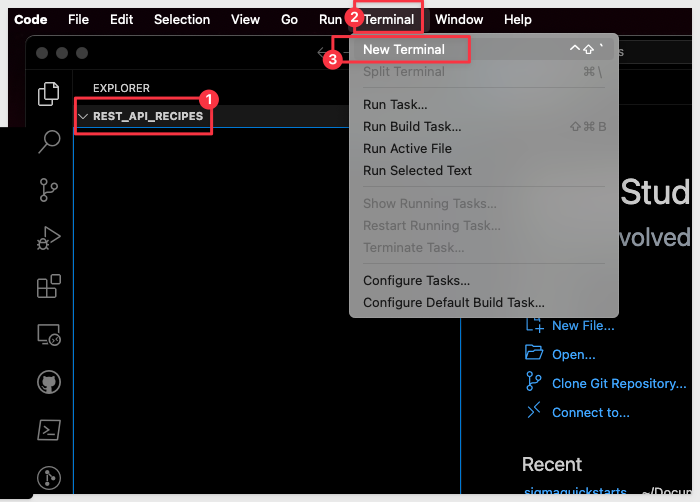
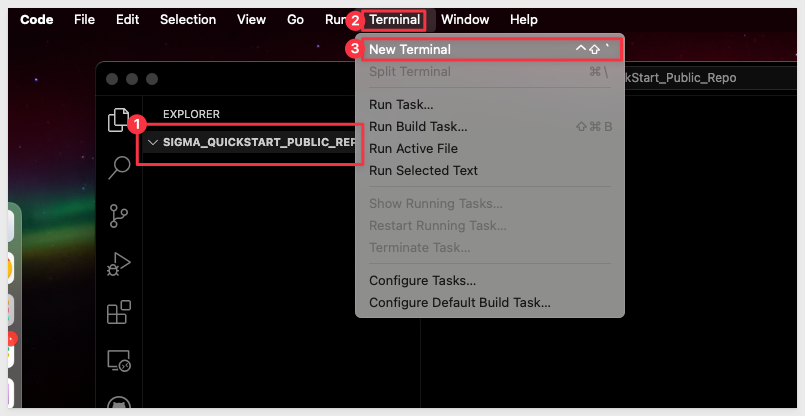
wip

diff --git a/site/sigmaguides/src/administration_api_code_samples/administration_api_code_samples.md b/site/sigmaguides/src/administration_api_code_samples/administration_api_code_samples.md
@@ -55,9 +55,9 @@ INSERT IMAGE OF FINAL BUILD IF APPROPRIATE.........
 
 ## Environment Setup
 
-### Create Project Folder
+### Create Sigma Project Folder
 
-Create a new folder on your local computer called `rest_api_recipes`. It does not matter where, as long as you can navigate to it easily.
+Create a new folder on your local computer called `Sigma_QuickStart_Public_Repo`. It does not matter where, as long as you can navigate to it easily.
 
 ### Source Code Editor - VSCode 
 
@@ -69,7 +69,7 @@ VSCode, is a source-code editor developed by Microsoft for Windows, Linux and ma
 
 Run the installation with all defaults.
 
-Open VSCode and make sure it loads without error and open the folder `rest_api_recipes` we created earlier:
+Open VSCode and make sure it loads without error and open the folder `Sigma_QuickStart_Public_Repo` we created earlier:
 
 <img src="assets/apics2.png" width="800"/>
 
@@ -138,32 +138,98 @@ npm install dotenv
 
 No errors should be returned. 
 
-### Environment Variables
+### Project Files
 
-We need to create a file to store our environment variables. 
+To save you time, we have stored all the required project files in Git, so you can just download them, and explore the use cases that interest you. This QuickStart will guide you, based on use case name, so feel free to skip to the section that interests you most.
 
-This file keeps our bearer token out of our scripts and also contains other variables we may want to change in different use-cases.
+<aside class="positive">
+<strong>IMPORTANT:</strong><br> The section named "Get Bearer Token Script" is a must read, as proper authentication is required in all use cases. Do that section once you finish this section.
+</aside>
 
-In VSCode, click the icon to create a new file, name the file `.env` and paste the following code into the editor.
+To clone the Git repository in VSCode, open the `Command palette`:
 
-<img src="assets/apics7.png" width="800"/>
+<img src="assets/apics10.png" width="800"/>
 
+Type `Clo` into the command palette bar and then click `Git: Clone`:
+
+<img src="assets/apics11.png" width="800"/>
+
+Paste this URL and hit enter:
 ```code
-CLIENT_ID=yourClientId
-SECRET=yourSecret
-MEMBER_ID=yourMemberId
+https://github.com/sigmacomputing/quickstarts-public.git
 ```
 
-Replace the placeholders for `yourClientId` and `yourSecret`. We will replace `yourMemberId` later on.
+VSCode will prompt for the location to store the files on your computer. Navigate to the `Sigma_QuickStart_Public_Repo` folder and click the `Select as Repository Destination` button.
+
+<img src="assets/apics12.png" width="800"/>
+
+If prompted to open the cloned repository, click `Open`.
+
+The repository contains other code samples you can explore, but we are interested in the `rest-api-recipes` folder:
+
+<img src="assets/apics13.png" width="800"/>
+
+### Environment Variables
+We need to update the file that stores our environment variables. 
+
+First, you will need to provide the values for `ClientID`, `Secret`, `Base` and `AuthURL`. [Instructions can be found in the API Swagger if needed.](https://help.sigmacomputing.com/reference/explanation)
+
+This file keeps our keys out of our scripts and also contains other variables we may want to change in different use-cases:
+
+<img src="assets/apics14.png" width="800"/>
+
+Replace the placeholders for `YourClientID` and `YourAPISecret`. The values for auth and baseURL are for Sigma instances hosted in AWS-US. You may need to change these based on where your instance is running. If you are not sure, check the instructions mentioned above (in the API Swagger).
 
 Save the file.
 
+![Footer](assets/sigma_footer.png)
+<!-- END OF SECTION-->
+
+## Get Bearer Token Script
+In this step, we will look at a script that authenticates to the [Sigma get access token endpoint](https://help.sigmacomputing.com/reference/token) and returns a bearer token (token)
+
 <aside class="positive">
-<strong>IMPORTANT:</strong><br> The token value will need to be refreshed each hour. We will handle that in our Javascript code.
+<strong>IMPORTANT:</strong><br> The token is valid for 3599 seconds (just under one hour) and needs to be refreshed.
 </aside>
 
+It also exports a Javascript function to request a bearer token (token) each time it is called. We can reference this function from any other API scripts we create, saving time later.
+
+<aside class="positive">
+<strong>IMPORTANT:</strong><br> The token is valid for 3599 seconds (just under one hour) and needs to be refreshed. Our Javascript function will handle that.
+</aside>
+
+Open the file `authenticate-bearer` and review it's contents. Each section is commented so it can be understood. 
+
+Start the VSCode debugger against this code by pressing `F5` on your keyboard.
+
+If prompted by VSCode to select a debugger, select `Node.js`:
+
+<img src="assets/apics15.png" width="800"/>
+
+The VSCode debugger console will show this API response if the .env variables are configured correctly:
+
+<img src="assets/apics16.png" width="800"/>
+
+The script is configured to run standalone as well as export a function that we can call from other scripts too. 
+
+The ability to run it standalone is only for convenience, so that we can verify it obtains a token.
+
+We can now move on to use cases, leveraging the `getBearerToken` function.
+
+![Footer](assets/sigma_footer.png)
+<!-- END OF SECTION-->
+
+## Change a Members's Account Type
+Duration: 20
+
+With our system setup, we can try our first script. 
+
 ### Create Test Member
-Let's create new member to test with. We could also do this with the API, but we will use the UI, since we want to use it to also verify API changes after the fact. 
+Let's create new member in Sigma to test with. 
+
+<aside class="negative">
+<strong>NOTE:</strong><br> We could also do this with the API, but we will use the UI to create a test member. We want to use the UI to verify API changes we make via API too.
+</aside>
 
 If you prefer, you can use any non-production user you want, but we recommend creating a test user for this purpose. 
 
@@ -179,115 +245,57 @@ Make a note of the test user's memberId. Again, we could get this using the API,
 
 In this case, the memberId is `KteJXJQfHuei5GxxY9hQOnFZHP91A`. Yours will be different.
 
-Add this value to the .env file we created and save the change.
+Add these values to the .env file we created and save the change.
 ```code
 MEMBER_ID=KteJXJQfHuei5GxxY9hQOnFZHP91A
+NEW_MEMBER_TYPE=Creator
 ```
 
-### Bearer Token Script
-In this step, we will create a script that exports a Javascript function to request a bearer token (token) each time it is called. 
-
-We will be able to reference this function from any other API scripts we create, saving time.
-
-Create a new file called `authenticate-bearer.js` and paste this code into it:
-```code
-STOPPED HERE PHIL
-```
-
-Save the file.
-
-![Footer](assets/sigma_footer.png)
-<!-- END OF SECTION-->
-
-## Change a Members's Account Type
-Duration: 20
-
-With our system setup, we can try our first script. 
+<img src="assets/apics17.png" width="800"/>
 
 ### Change Test Members's Account Type
 Our test user is currently a `Viewer` account type. We want to call the Sigma API endpoint to `Update the specified member` account type to `Creator`.
 
 <img src="assets/apics9.png" width="800"/>
 
-We will be using [this endpoint.](https://help.sigmacomputing.com/reference/updatemember-1)
+We will be using the [Update the specified member](https://help.sigmacomputing.com/reference/updatemember-1) endpoint.
 
-In VSCode, click to create a new file called `change-member-account-type.js` in our project folder:
+### Running the Script
+Open the file `change-member-account-type.js`. 
 
-<img src="assets/apics6.png" width="400"/>
+Each code block is commented to explain what operations are being performed. 
 
-Next, paste the following code into the codeblock section as shown. There are in-line comments to describe the major sections:
-```code
-// Use Axios module:
-const axios = require('axios');
+Press `F5` to run the script with VSCode's debugger. 
 
-// Load environment variables directly:
-const clientId = process.env.CLIENT_ID; // Loaded from the .env file
-const secret = process.env.SECRET; // Loaded from the .env file
-const memberId = process.env.MEMBER_ID; // Loaded from the .env file
+The expected response is:
 
-// Set member type desired into a variable:
-const newMemberType = 'Creator';
+<img src="assets/apics18.png" width="800"/>
 
-// Sigma API authentication endpoint (BaseURL):
-const authUrl = 'https://aws-api.sigmacomputing.com/auth'; // Update with the baseURL where your Sigma instance is hosted 
+A quick check against the member in Sigma shows them having the `Creator` account type now:
 
-// Function to obtain Bearer token:
-async function getBearerToken() {
-  try {
-    const response = await axios.post(authUrl, {
-      clientId,
-      secret,
-    });
-    return response.data.accessToken; // Adjust according to the actual response structure
-  } catch (error) {
-    console.error('Error obtaining Bearer token:', error);
-    return null;
-  }
-}
-
-// Main function to update member type:
-async function updateMemberType() {
-  const token = await getBearerToken();
-  if (!token) {
-    console.log('Failed to obtain Bearer token.');
-    return;
-  }
-
-  const headers = {
-    'Content-Type': 'application/json',
-    'Authorization': `Bearer ${token}`
-  };
-
-  const data = {
-    memberType: newMemberType
-  };
-
-  axios.patch(`https://aws-api.sigmacomputing.com/v2/members/${memberId}`, data, { headers })
-    .then(response => {
-      console.log('User account type updated successfully:', JSON.stringify(response.data, null, 2));
-    })
-    .catch(error => {
-      const errorMessage = error.response ? JSON.stringify(error.response.data, null, 2) : error.message;
-      console.error('Error updating user account type:', errorMessage);
-    });
-}
-
-// Call the main function
-updateMemberType();
-```
-
-Save the file.
-
-
-
-
-
+<img src="assets/apics19.png" width="800"/>
 
 ![Footer](assets/sigma_footer.png)
 <!-- END OF SECTION-->
 
-## **NEXT SECTION**
+## Workbooks Last Accessed for a Member
 Duration: 20
+
+In this use case, we want to return a list of the Workbooks (by name), the permission and when they last accessed for each Workbook, ordered by most recent first.
+
+Open the file called `.env` and ensure that the memberID is set for someone who has accessed Workbooks in your Sigma instance. In a trial environment, pick someone who is very active or yourself if that is the case. As long as there is activity, it does not matter otherwise.
+
+If you are not sure how to obtain a memberID, review the section called `Create Test Member` in the step called `Change a Members's Account Type`.
+
+Open the file called `most-recent-workbook-access.js`.
+
+Each code block is commented to explain what operations are being performed. 
+
+Press `F5` to run the script with VSCode's debugger. 
+
+The expected response is:
+
+<img src="assets/apics20.png" width="800"/>
 
 ![Footer](assets/sigma_footer.png)
 <!-- END OF SECTION-->
